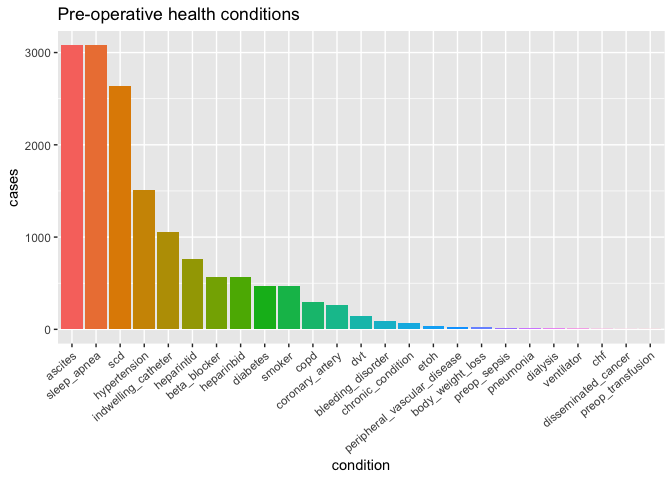
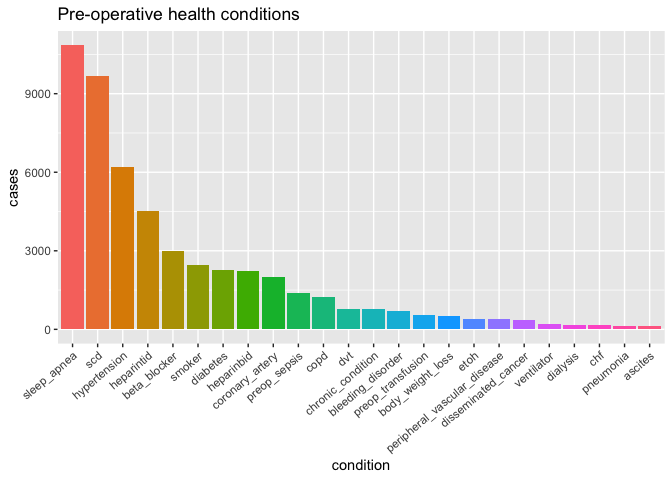
update with new data

diff --git a/tiff_subanalysis.md b/tiff_subanalysis.md
@@ -24,14 +24,15 @@ condition.
 dist_healthdisease = healthdisease %>% 
   select(-postop_ssi_super, -postop_ssi_deep, -postop_ssi_organspace, 
          -any_ssi, -death, -surgical_approach) %>% 
-  mutate(preop_sepsis = ifelse(preop_sepsis == 1, 0, 1), 
+  mutate(ascites = ifelse(ascites == 2, 1, 0),
+         preop_sepsis = ifelse(preop_sepsis == 1, 0, 1), 
          sleep_apnea = ifelse(sleep_apnea == 0, 0, 1)) %>%
   replace_na(list(dvt = 0, disseminated_cancer = 0, beta_blocker = 0, scd = 0,
-                  heparinbid = 0, heparintid = 0, indwelling_catheter = 0)) %>% 
+                  heparinbid = 0, heparintid = 0)) %>% 
   rownames_to_column %>% 
   gather(condition, value, -rowname) %>% 
   spread(rowname, value) %>% 
-  mutate(cases = rowSums(.[2:3085])) %>% 
+  mutate(cases = rowSums(.[2:10868])) %>% 
   transform(condition = reorder(condition, -cases))
 
 ggplot(dist_healthdisease, aes(x = condition, y = cases, fill = condition)) + geom_bar(stat = "identity") + ggtitle("Pre-operative health conditions") + theme(axis.text.x = element_text(angle = 40, hjust = 1), legend.position = "none")
